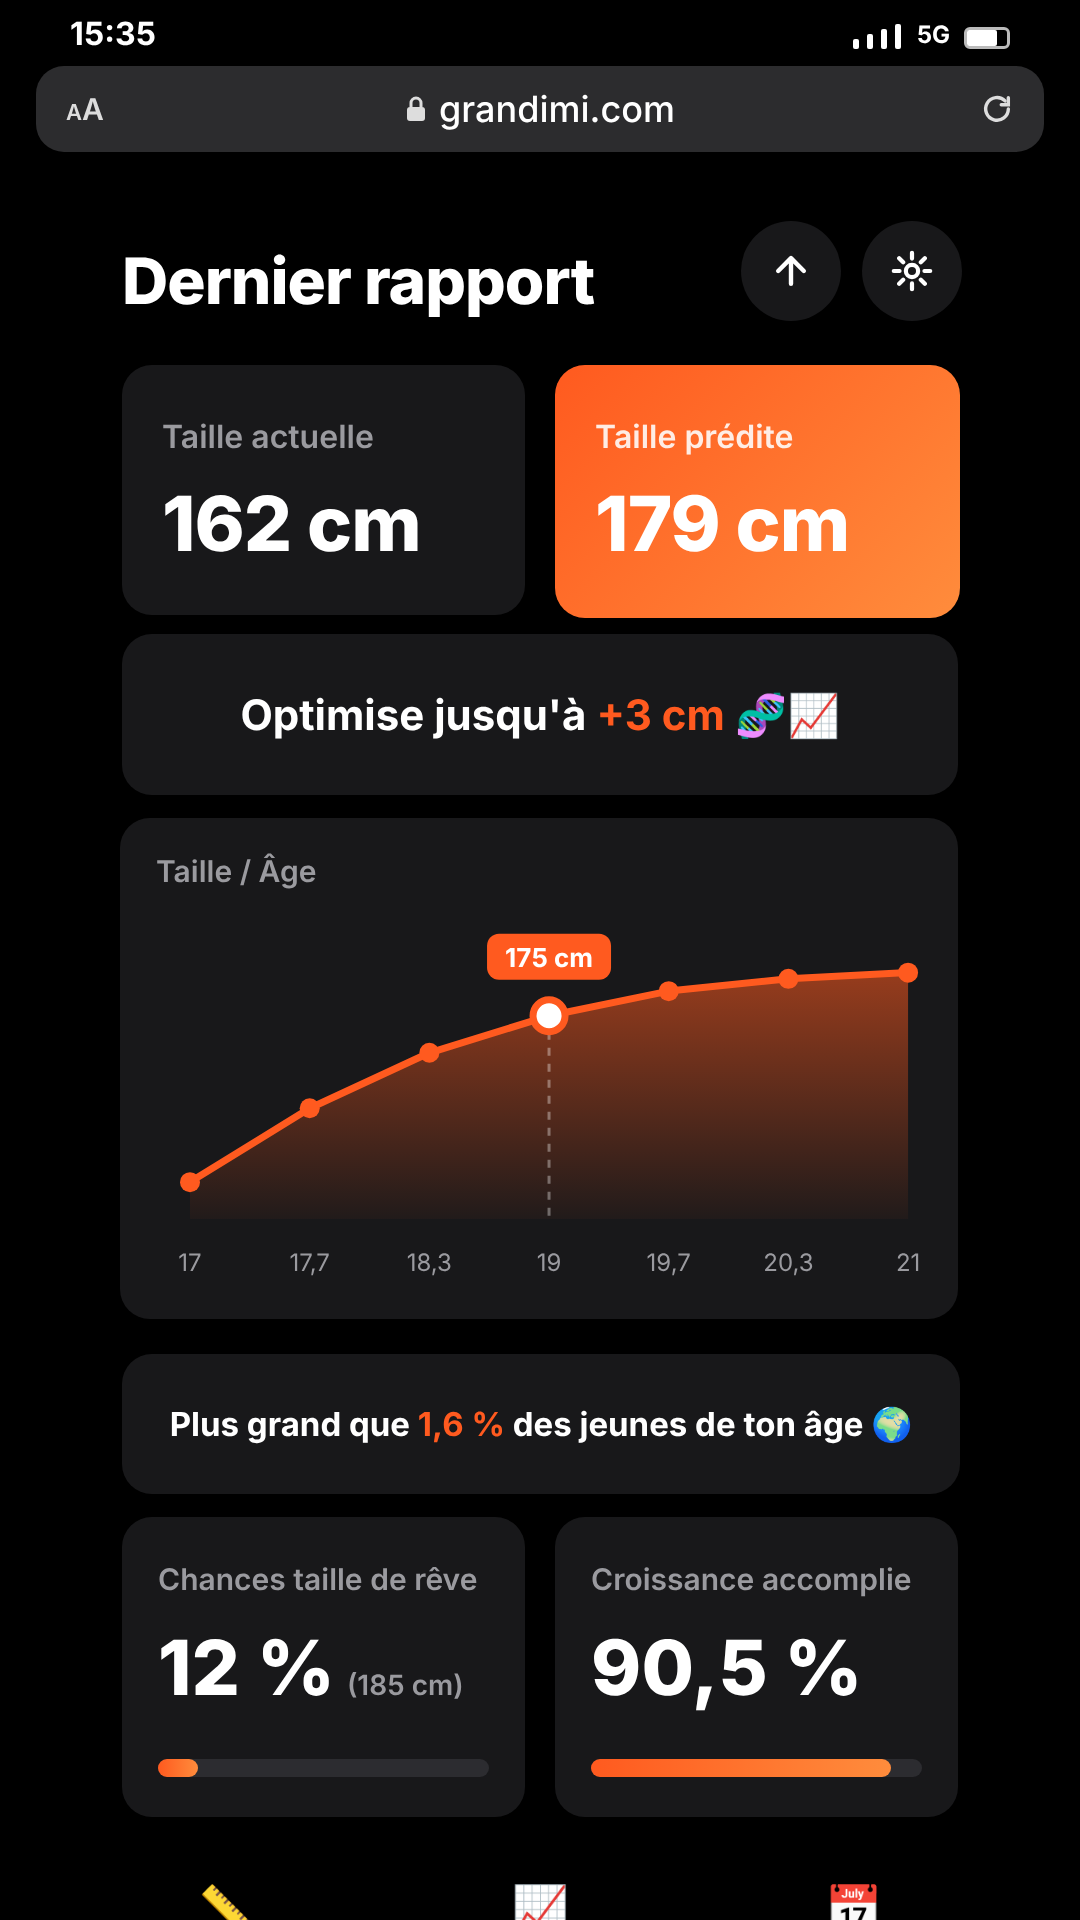
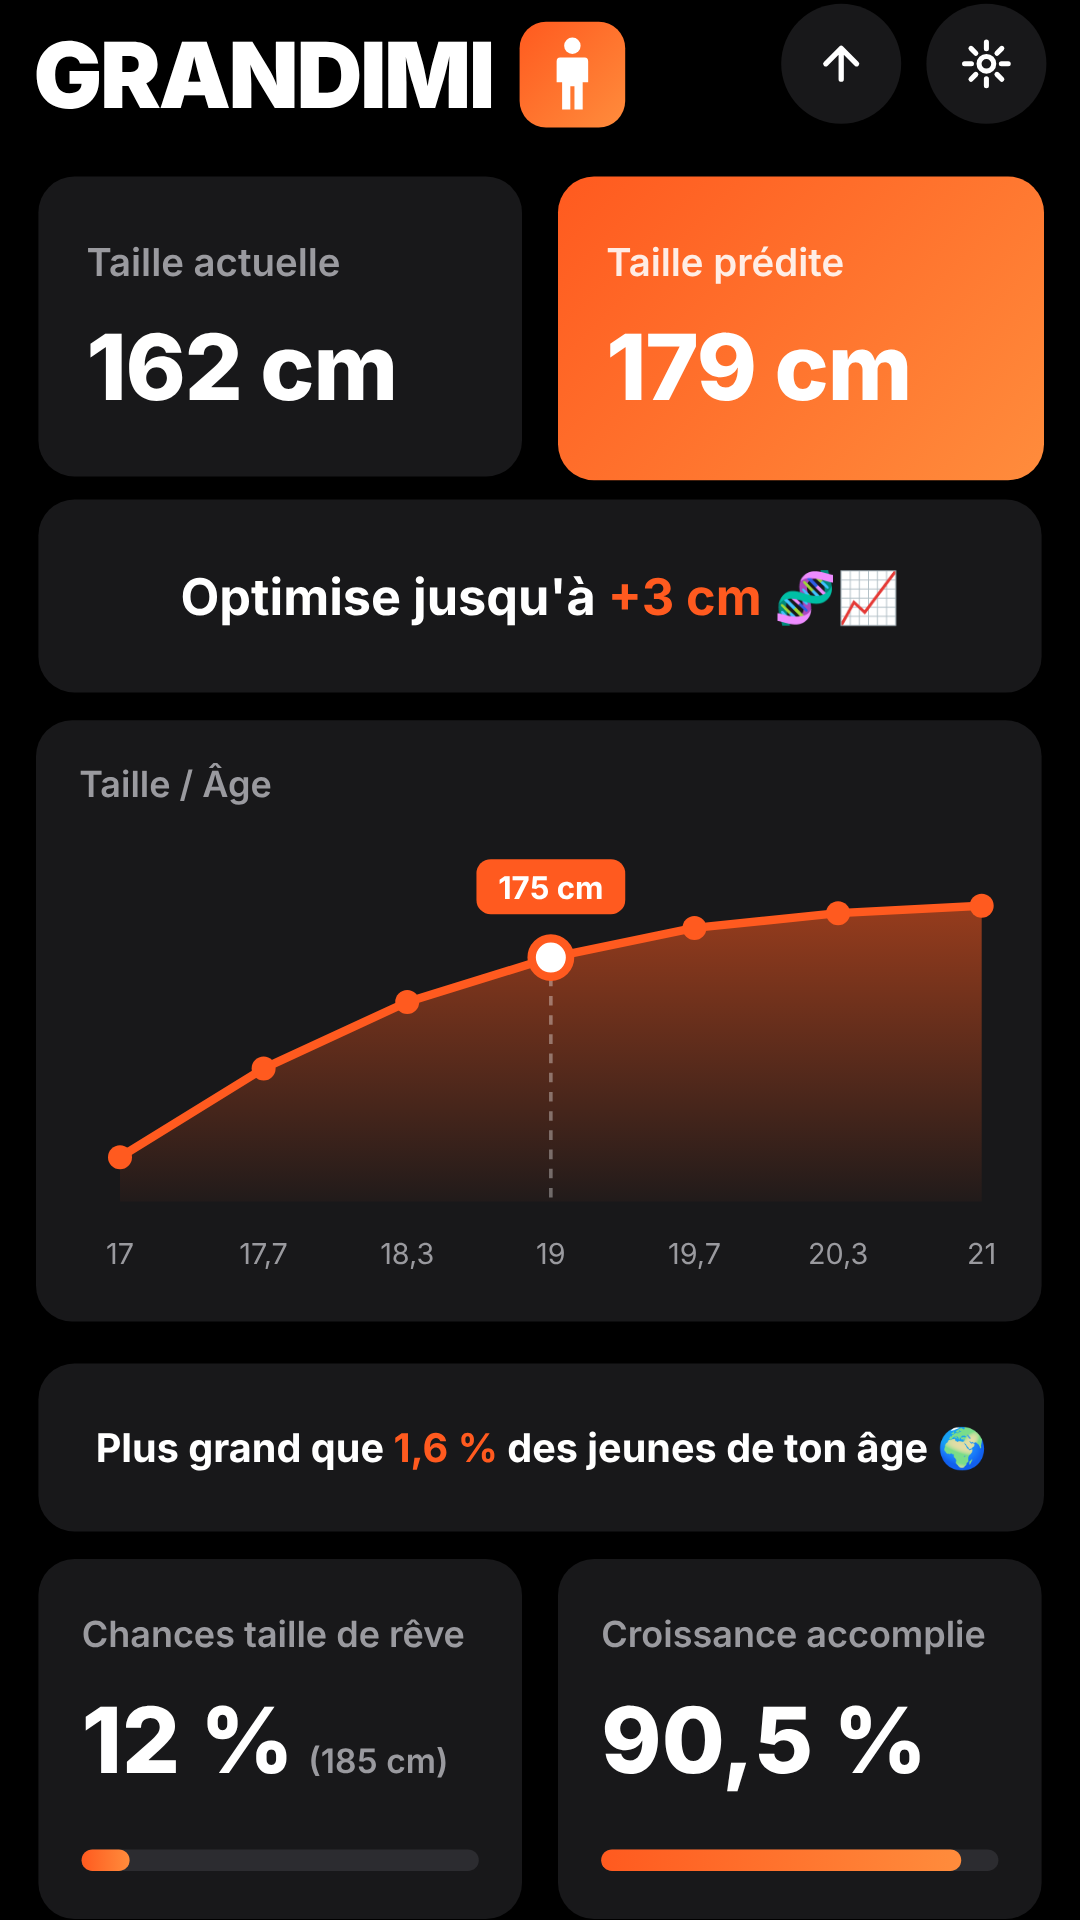
Diapos pub au format Taller : en-tête GRANDIMI + icône, cartes pleine largeur, coupe en bas
Claude-Session: https://claude.ai/code/session_01BTLT518gu1g1ezUbmEDRqv

diff --git a/video/src/episode/Dashboard.tsx b/video/src/episode/Dashboard.tsx
@@ -219,7 +219,9 @@ export const DashboardGrandimi: React.FC<{
 	revele?: number;
 	/** Page ouverte dans Safari : barre d'état et barre d'adresse fixes en haut, page décalée dessous. */
 	url?: string;
-}> = ({d, cams, pops, fleches, ballon, revele, url}) => {
+	/** logo : en-tête « GRANDIMI » + icône à la place de « Dernier rapport », sans barre d'état (format des diapos Taller). */
+	entete?: 'logo';
+}> = ({d, cams, pops, fleches, ballon, revele, url, entete}) => {
 	const f = useCurrentFrame();
 	const c = camera(cams, f);
 	const sx = (l: Ligne) => echelleLigne(pops, l, f);
@@ -242,8 +244,8 @@ export const DashboardGrandimi: React.FC<{
 				}}
 			>
 				{/* Barre d'état (visible dans les zooms, comme sur l'enregistrement d'écran de l'original). */}
-				<div style={{position: 'absolute', left: 140, top: 18, fontSize: 30, fontWeight: 700, opacity: url ? 0 : 1}}>15:35</div>
-				<div style={{position: 'absolute', right: 140, top: 22, display: url ? 'none' : 'flex', gap: 10, alignItems: 'flex-end'}}>
+				<div style={{position: 'absolute', left: 140, top: 18, fontSize: 30, fontWeight: 700, opacity: url || entete ? 0 : 1}}>15:35</div>
+				<div style={{position: 'absolute', right: 140, top: 22, display: url || entete ? 'none' : 'flex', gap: 10, alignItems: 'flex-end'}}>
 					{[10, 15, 20, 25].map((h, i) => (
 						<div key={i} style={{width: 6, height: h, borderRadius: 2, background: i < 3 ? '#fff' : '#666'}} />
 					))}
@@ -252,7 +254,29 @@ export const DashboardGrandimi: React.FC<{
 					</div>
 				</div>
 				{/* En-tête */}
-				<div style={{position: 'absolute', left: 122, top: 92, fontSize: 64, fontWeight: 800, letterSpacing: -1}}>Dernier rapport</div>
+				{entete === 'logo' ? (
+					<div style={{position: 'absolute', left: 118, top: 84, display: 'flex', alignItems: 'center', gap: 22}}>
+						<div style={{fontSize: 76, fontWeight: 900, letterSpacing: -2}}>GRANDIMI</div>
+						<div
+							style={{
+								width: 88,
+								height: 88,
+								borderRadius: 22,
+								background: `linear-gradient(135deg, ${OR} 0%, ${OR2} 100%)`,
+								display: 'flex',
+								alignItems: 'center',
+								justifyContent: 'center',
+							}}
+						>
+							<svg width={40} height={64} viewBox="0 0 70 110">
+								<circle cx={35} cy={13} r={12} fill="#fff" />
+								<path d="M17 30 H53 Q58 30 58 36 V66 H50 V106 H38 V72 H32 V106 H20 V66 H12 V36 Q12 30 17 30 Z" fill="#fff" />
+							</svg>
+						</div>
+					</div>
+				) : (
+					<div style={{position: 'absolute', left: 122, top: 92, fontSize: 64, fontWeight: 800, letterSpacing: -1}}>Dernier rapport</div>
+				)}
 				<IconeRonde x={741}>
 					<svg width={44} height={44} viewBox="0 0 24 24" fill="none" stroke="#fff" strokeWidth={2.4} strokeLinecap="round" strokeLinejoin="round">
 						<path d="M12 19V5M5 12l7-7 7 7" />

diff --git a/video/src/episode/Episode.tsx b/video/src/episode/Episode.tsx
@@ -724,6 +724,7 @@ const PlanView: React.FC<{plan: Plan; start: number; end: number; ep: EpisodeDat
 					fleches={plan.dashboard.fleches.map((fl) => ({...fl, a: loc(fl.a), fin: loc(fl.fin)}))}
 					revele={plan.dashboard.revele !== undefined ? loc(plan.dashboard.revele) : undefined}
 					url={plan.dashboard.url}
+					entete={plan.dashboard.entete}
 					ballon={
 						plan.dashboard.ballon
 							? {src: file(plan.dashboard.ballon.fichier), a: loc(plan.dashboard.ballon.a), fin: loc(plan.dashboard.ballon.fin)}

diff --git a/video/src/episode/types.ts b/video/src/episode/types.ts
@@ -88,6 +88,8 @@ export type Plan = {
 		revele?: Ancre;
 		/** Page vue dans Safari : barre d'adresse avec ce lien en haut (diapos pub). */
 		url?: string;
+		/** logo : en-tête « GRANDIMI » + icône, sans barre d'état (diapos format Taller). */
+		entete?: 'logo';
 	};
 	/** Suite d'images plein écran (une par frame, la dernière reste affichée), à la place de `image`. */
 	sequence?: string[];
